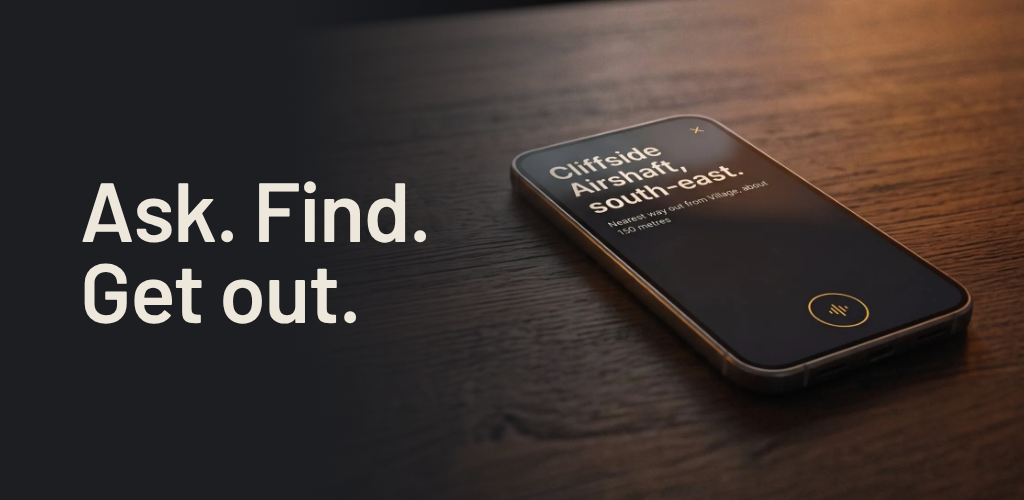
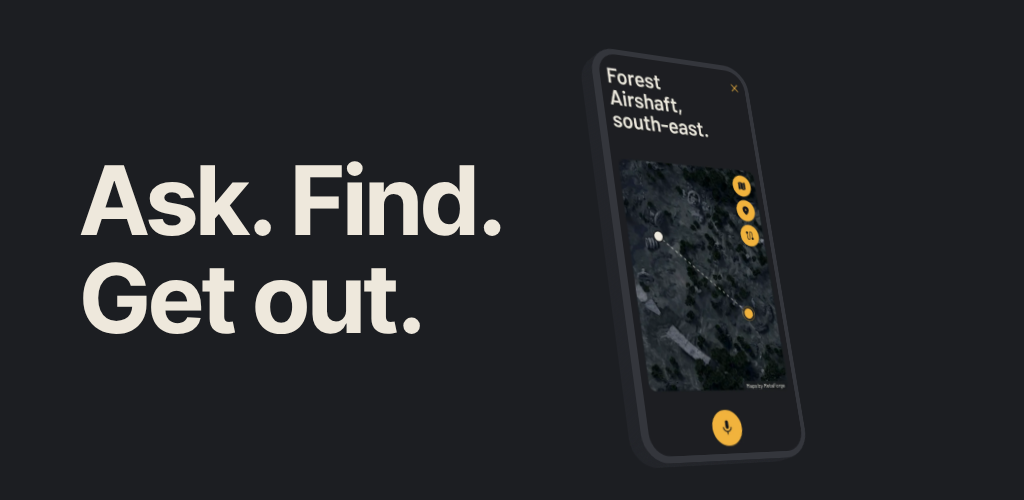
Play listing art redone to match the site: four headline screenshots and the Ask. Find. / Get out. feature graphic
Claude-Session: https://claude.ai/code/session_01P1qx1SHyXgDY1AuiAuT1Fr

diff --git a/android-release/play-listing/source/shot.html b/android-release/play-listing/source/shot.html
@@ -1,20 +1,31 @@
-<!doctype html><html><head><meta charset="utf-8"><style>
-@font-face{font-family:B;font-weight:400;src:url(barlow-400.woff2)}@font-face{font-family:B;font-weight:600;src:url(barlow-600.woff2)}@font-face{font-family:B;font-weight:700;src:url(barlow-700.woff2)}
-html,body{margin:0;background:#26282D;color:#EEE8DC;font-family:B}
-.s{width:1080px;height:1920px;position:relative;overflow:hidden;background:radial-gradient(70% 45% at 50% 62%,rgba(242,179,61,.16),rgba(242,179,61,0) 70%),#26282D}
-h1{position:absolute;left:96px;right:96px;top:120px;margin:0;font:600 112px/1 B;letter-spacing:-.015em;text-wrap:balance}
-h1 span{color:inherit}
-.ph{position:absolute;left:50%;top:392px;width:640px;transform:translateX(-50%);padding:22px;border-radius:88px;background:#15171C;box-shadow:inset 0 0 0 2px rgba(238,232,220,.22),0 40px 120px rgba(0,0,0,.55)}
-.ph img{display:block;width:100%;border-radius:68px}
-.fg{width:1024px;height:500px;position:relative;overflow:hidden;background:#1C1E22}
-.fg img{position:absolute;left:-118px;top:-157px;width:1182px;height:660px}
-.fg:after{content:"";position:absolute;inset:0;background:linear-gradient(90deg,#1C1E22 28%,rgba(28,30,34,.55) 46%,rgba(28,30,34,0) 60%)}
-.fg .t{position:absolute;z-index:1;left:80px;top:0;bottom:0;display:flex;flex-direction:column;justify-content:center}
-.mk{display:flex;align-items:center;gap:14px;margin-bottom:36px}.mk svg{width:44px;height:44px;overflow:hidden}.mk path{fill:none;stroke:#F2B33D;stroke-width:10}
-.wd{font:700 28px/1 B;letter-spacing:.04em}.wd i{font-style:normal;font-weight:400}.wd b{color:#F2B33D}
-.fg h2{margin:0;font:600 84px/.96 B;letter-spacing:-.015em}.fg h2 span{color:inherit}
-</style></head><body>
-<div class="s" id="s1"><h1>Ask. Find.<br><span>Get out.</span></h1><div class="ph"><img src="screen-home.png"></div></div>
-<div class="s" id="s2"><h1>Just say<br><span>“Hey Relay”.</span></h1><div class="ph"><img src="screen-listening.png"></div></div>
-<div class="fg" id="fg"><img src="hero-desk.webp"><div class="t"><h2>Ask. Find.<br><span>Get out.</span></h2></div></div>
-</body></html>
+<!doctype html>
+<!-- Relay Play listing art (5 Nov 2026). Rendered by render.js: four 1080 x 1920 screenshots (#s1 to #s4) and the 1024 x 500 feature graphic (#fg).
+     Same language as getarcrelay.app/beta: charcoal ground, cream Inter Tight, the real app screens in a phone frame, no gradients.
+     The screens are the site's captures (screens/*.webp); re-capture on the Pixel when the app UI changes, then re-run render.js. -->
+<meta charset="utf-8">
+<style>
+@font-face{font-family:IT;font-weight:400;src:url(inter-tight-400.woff2)}
+@font-face{font-family:IT;font-weight:600;src:url(inter-tight-600.woff2)}
+@font-face{font-family:IT;font-weight:700;src:url(inter-tight-700.woff2)}
+html,body{margin:0;background:#1C1E22;color:#EEE8DC;font-family:IT}
+.s{position:relative;width:1080px;height:1920px;overflow:hidden;background:#1C1E22;margin-bottom:40px}
+.s h1{position:absolute;left:96px;right:96px;top:136px;margin:0;font:600 104px/1 IT;letter-spacing:0;text-wrap:balance}
+/* phone: frame, corners and screen radius in proportion to its width, as on the site */
+.ph{--pw:640px;position:absolute;left:50%;top:520px;width:var(--pw);aspect-ratio:390/844;transform:translateX(-50%);box-sizing:border-box;padding:calc(var(--pw) * .0333);border-radius:calc(var(--pw) * .1467);background:#2A2C32;box-shadow:inset 0 0 0 2px rgba(255,255,255,.08)}
+.ph img{display:block;width:100%;height:100%;border-radius:calc(var(--pw) * .1133);object-fit:cover;object-position:top}
+/* feature graphic: the site's closing lockup, phone turned the way it is in the finale */
+.fg{position:relative;width:1024px;height:500px;overflow:hidden;background:#1C1E22;display:flex;align-items:center}
+.fg h2{margin:0 0 0 80px;font:700 96px/1.02 IT;letter-spacing:-.01em;white-space:pre-line}
+.fg .stage{position:absolute;left:700px;top:50%;perspective:1400px;transform:translate(-50%,-50%)}
+.p3{--pw:196px;--d:23px;position:relative;width:var(--pw);aspect-ratio:390/844;border-radius:calc(var(--pw) * .1467);transform-style:preserve-3d;transform:rotateX(22deg) rotateY(34deg) rotateZ(-10deg)}
+.p3 i{position:absolute;inset:0;border-radius:inherit;background:#222429;transform:translateZ(calc(var(--k) * var(--d) / -12))}
+.p3 i.rim{background:#34363C}
+.p3 .scr{position:absolute;inset:calc(var(--pw) * .0333);border-radius:calc(var(--pw) * .1133);overflow:hidden;transform:translateZ(.5px)}
+.p3 .scr img{display:block;width:100%;height:100%;object-fit:cover;object-position:top}
+</style>
+<div class="s" id="s1"><h1>Need a quick evac?</h1><div class="ph"><img src="screen-3-exit.webp" alt=""></div></div>
+<div class="s" id="s2"><h1>Just ask.</h1><div class="ph"><img src="screen-2-listening.webp" alt=""></div></div>
+<div class="s" id="s3"><h1>Find what you need.</h1><div class="ph"><img src="screen-4-find.webp" alt=""></div></div>
+<div class="s" id="s4"><h1>Show it where you are.</h1><div class="ph"><img src="screen-5-pin.webp" alt=""></div></div>
+<div class="fg" id="fg"><h2>Ask. Find.
+Get out.</h2><div class="stage"><div class="p3"><i style="--k:12"></i><i style="--k:11"></i><i style="--k:10"></i><i style="--k:9"></i><i style="--k:8"></i><i style="--k:7"></i><i style="--k:6"></i><i style="--k:5"></i><i style="--k:4"></i><i style="--k:3"></i><i style="--k:2"></i><i class="rim" style="--k:1"></i><div class="scr"><img src="screen-3-exit.webp" alt=""></div></div></div></div>

diff --git a/android-release/play-listing/source/render.js b/android-release/play-listing/source/render.js
@@ -1,5 +1,7 @@
+// Renders shot.html into the Play listing art: raw-s1..s4.png (1080 x 1920) and raw-fg.png (1024 x 500).
+// Then: python3 finish.py (flattens to 24-bit PNG, no alpha, with the final names in ../)
 const { chromium } = require('playwright');
 (async () => { const b = await chromium.launch(); const p = await b.newPage({ viewport: { width: 1080, height: 1920 } });
- await p.goto('file://' + process.cwd() + '/shot.html'); await p.waitForTimeout(800);
- await (await p.$('#s1')).screenshot({ path: 'raw-1.png' }); await (await p.$('#s2')).screenshot({ path: 'raw-2.png' }); await (await p.$('#fg')).screenshot({ path: 'raw-fg.png' });
+ await p.goto('file://' + process.cwd() + '/shot.html'); await p.evaluate(() => document.fonts.ready); await p.waitForTimeout(800);
+ for (const id of ['s1','s2','s3','s4','fg']) await (await p.$('#' + id)).screenshot({ path: 'raw-' + id + '.png' });
  await b.close(); })();

diff --git a/android-release/play-listing/source/finish.py b/android-release/play-listing/source/finish.py
@@ -1,0 +1,6 @@
+"""Flattens the rendered art to 24-bit PNG (Play wants no alpha) under its final names."""
+from PIL import Image
+names = {"s1": "arcrelay-play-screenshot-1-evac", "s2": "arcrelay-play-screenshot-2-ask", "s3": "arcrelay-play-screenshot-3-find",
+         "s4": "arcrelay-play-screenshot-4-where", "fg": "arcrelay-play-feature-graphic"}
+for k, n in names.items():
+    im = Image.open("raw-%s.png" % k).convert("RGB"); im.save("../%s.png" % n, optimize=True); print(n, im.size)

diff --git a/android-release/README.md b/android-release/README.md
@@ -5,12 +5,13 @@ Everything for the Google Play listing lives here. Off the site (the site is `si
 ## Done (4 Nov 2026)
 
 - **Icon**, `icon/arcrelay-play-icon.png`: 512 x 512 PNG, sRGB, no alpha, full square (Play adds the rounded corners and shadow). The same three signal lines as the launcher icon, made by `tools/make-icon.py`.
-- **Play listing art**, in `play-listing/`:
-  - `arcrelay-play-screenshot-1-ask.png`, `arcrelay-play-screenshot-2-hey-relay.png`: 1080 x 1920, 24-bit PNG with no alpha. Real app screens (captured at 9:30pm so the greeting says Evening) in a phone outline on panel charcoal with a soft amber glow behind it, one cream headline each (no yellow text).
-  - `arcrelay-play-feature-graphic.png`: 1024 x 500, "Ask. Find. Get out." in cream, centred vertically, beside the desk photo with the phone centred in the right half. No logo. Content kept clear of the edges, which Play can crop.
+- **Play listing art**, in `play-listing/` (redone 5 Nov 2026 to match the new site):
+  - `arcrelay-play-screenshot-1-evac.png`, `-2-ask.png`, `-3-find.png`, `-4-where.png`: 1080 x 1920, 24-bit PNG with no alpha. The homepage's four headlines in cream Inter Tight on charcoal, each above the matching real app screen in a phone frame (frame and corners in proportion, as on the site). No gradients or glows.
+  - `arcrelay-play-feature-graphic.png`: 1024 x 500, the site's closing lockup: "Ask. Find. / Get out." in 700 cream on the left, the 3D phone turned the finale's way on the right showing the evac answer. Content kept clear of the edges, which Play can crop.
   - `arcrelay-play-listing-text.txt`: short description (79/80) and full description, above and below the `---`.
   - `arcrelay-play-alt-text.txt`: alt text for each image.
-  - `source/`: `capture.js` captures the app screens, `shot.html` + `render.js` lay them out. Re-run both after UI changes.
+  - `source/`: `shot.html` lays the art out, `render.js` renders it, `finish.py` flattens it to the final names. The screens are copies of the site's captures (`site/beta/screens/`).
+  - **Before upload:** the screens were captured on 4 Nov, before the app moved to Inter Tight, so the app text in them is still Barlow. Re-capture on the Pixel (`capture.js`), copy them over the four `screen-*.webp` in `source/`, then `node render.js && python3 finish.py`.
 
 ## Listing details
 
@@ -20,4 +21,4 @@ Everything for the Google Play listing lives here. Off the site (the site is `si
 ## To do
 
 - A screenshot with the map (exits marked, you-dot and route). Best taken on the Pixel, then framed with `shot.html`. The build sandbox can't reach MetaForge's map tiles.
-- More screenshots as features land (Play promotes listings with 4 or more).
+- Re-capture the four screens in Inter Tight (above). More screenshots as maps and features land.
